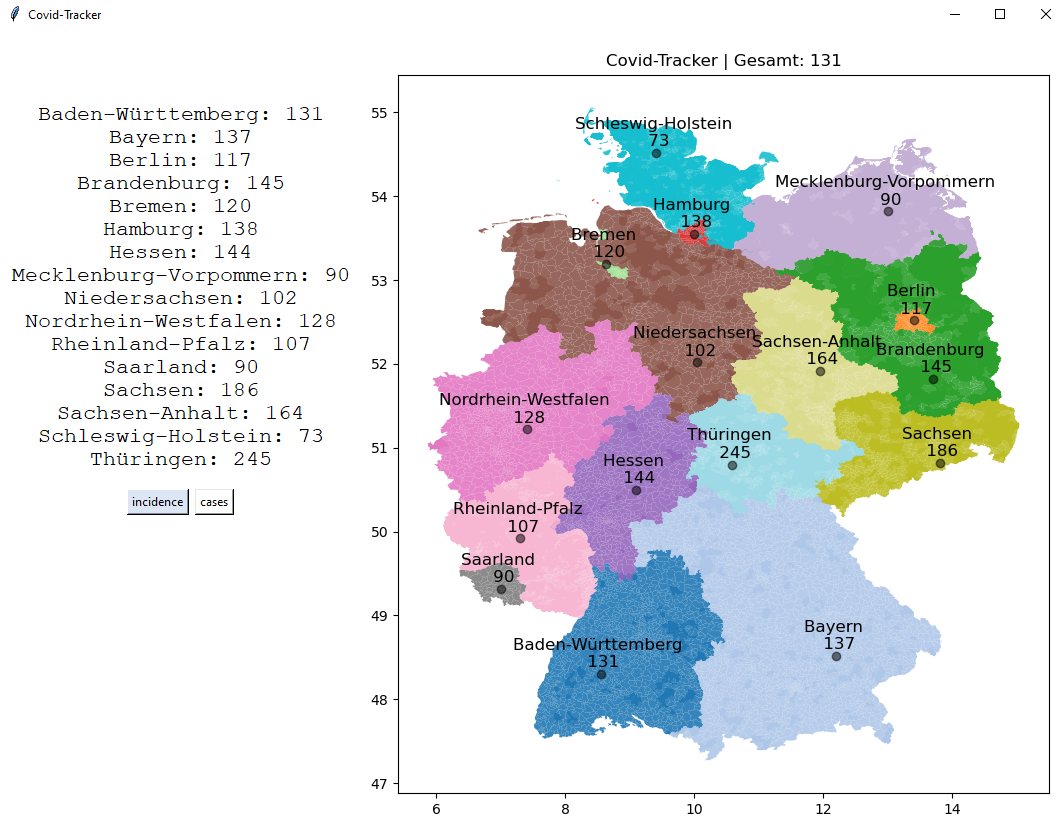
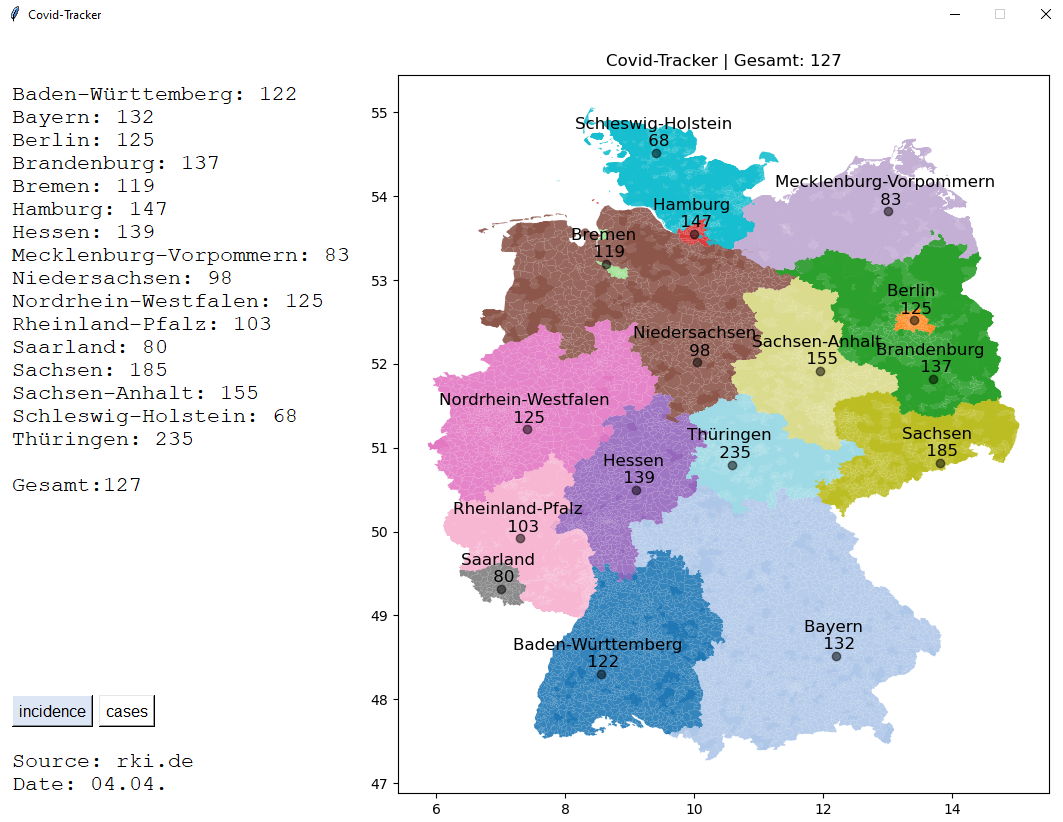
small fixes

diff --git a/app.py b/app.py
@@ -46,23 +46,33 @@ class App:
             # 'Gesamt': [(0, 0), self.data[16]],
         }
 
+        self.gesamt = self.data[16]
+
+        self.incidenceText = '\n'.join([f'{i}: {j[1][1]}' for (i, j) in self.bundeslandL.items()]) + '\n\nGesamt:' + self.gesamt[1]
+        self.casesText = '\n'.join([f'{i}: {j[1][0]}' for (i, j) in self.bundeslandL.items()]) + '\n\nGesamt:' + self.gesamt[0]
+        
+        self.today = datetime.now()
+
         self.lF = tk.LabelFrame(root, bd=0, bg='white', height=750)
         self.lF.grid(row=0, column=0, sticky='N')
 
         self.rF = tk.LabelFrame(root, bd=0, bg='white')
         self.rF.grid(row=0, column=1)
 
-        self.label = tk.Label(self.lF, bg='white', font=('Courier', 16), text='\n'.join([f'{i}: {j[1][1]}' for (i, j) in self.bundeslandL.items()]))
-        self.label.grid(row=0, column=0, sticky='N', pady=(70, 5), padx=10)
+        self.label = tk.Label(self.lF, bg='white', justify='left', font=('Courier', 16), text=self.incidenceText)
+        self.label.grid(row=0, column=0, sticky='N', pady=(50, 5), padx=10)
 
         self.bF = tk.LabelFrame(self.lF, bd=0, bg='white')
-        self.bF.grid(row=1, column=0, sticky='S', pady=(10, 0))
+        self.bF.grid(row=1, column=0, sticky='W', pady=(190, 0), padx=10)
 
-        self.Cbtn = tk.Button(self.bF, text='cases', command=self.cases, bg='white')
+        self.Cbtn = tk.Button(self.bF, text='cases', font=18, command=self.cases, bg='white')
         self.Cbtn.grid(row=0, column=1, padx=3)
 
-        self.Ibtn = tk.Button(self.bF, text='incidence', command=self.incidence, bg='#dce6f5')
+        self.Ibtn = tk.Button(self.bF, text='incidence', font=18, command=self.incidence, bg='#dce6f5')
         self.Ibtn.grid(row=0, column=0, padx=3)
+
+        self.info = tk.Label(self.lF, bg='white', justify='left', font=('Courier', 16), text=f'Source: rki.de\nDate: {self.today.strftime("%d.%m.")}')
+        self.info.grid(row=2, column=0, sticky='W', pady=(20, 20), padx=10)
 
         self.fig = Figure(figsize=(7,8))
         self.fig.subplots_adjust(left=0.05, bottom=0.03, right=.98, top=0.96)
@@ -89,13 +99,13 @@ class App:
     def cases(self):
         self.Ibtn['bg'] = 'white'
         self.Cbtn['bg'] = '#dce6f5'
-        self.label['text'] = '\n'.join([f'{i}: {j[1][0]}' for (i, j) in self.bundeslandL.items()])
+        self.label['text'] = self.casesText
         self.mapPlot(s=0)
 
     def incidence(self):
         self.Cbtn['bg'] = 'white'
         self.Ibtn['bg'] = '#dce6f5'
-        self.label['text'] = '\n'.join([f'{i}: {j[1][1]}' for (i, j) in self.bundeslandL.items()])
+        self.label['text'] = self.incidenceText
         self.mapPlot(s=1)
 
 
